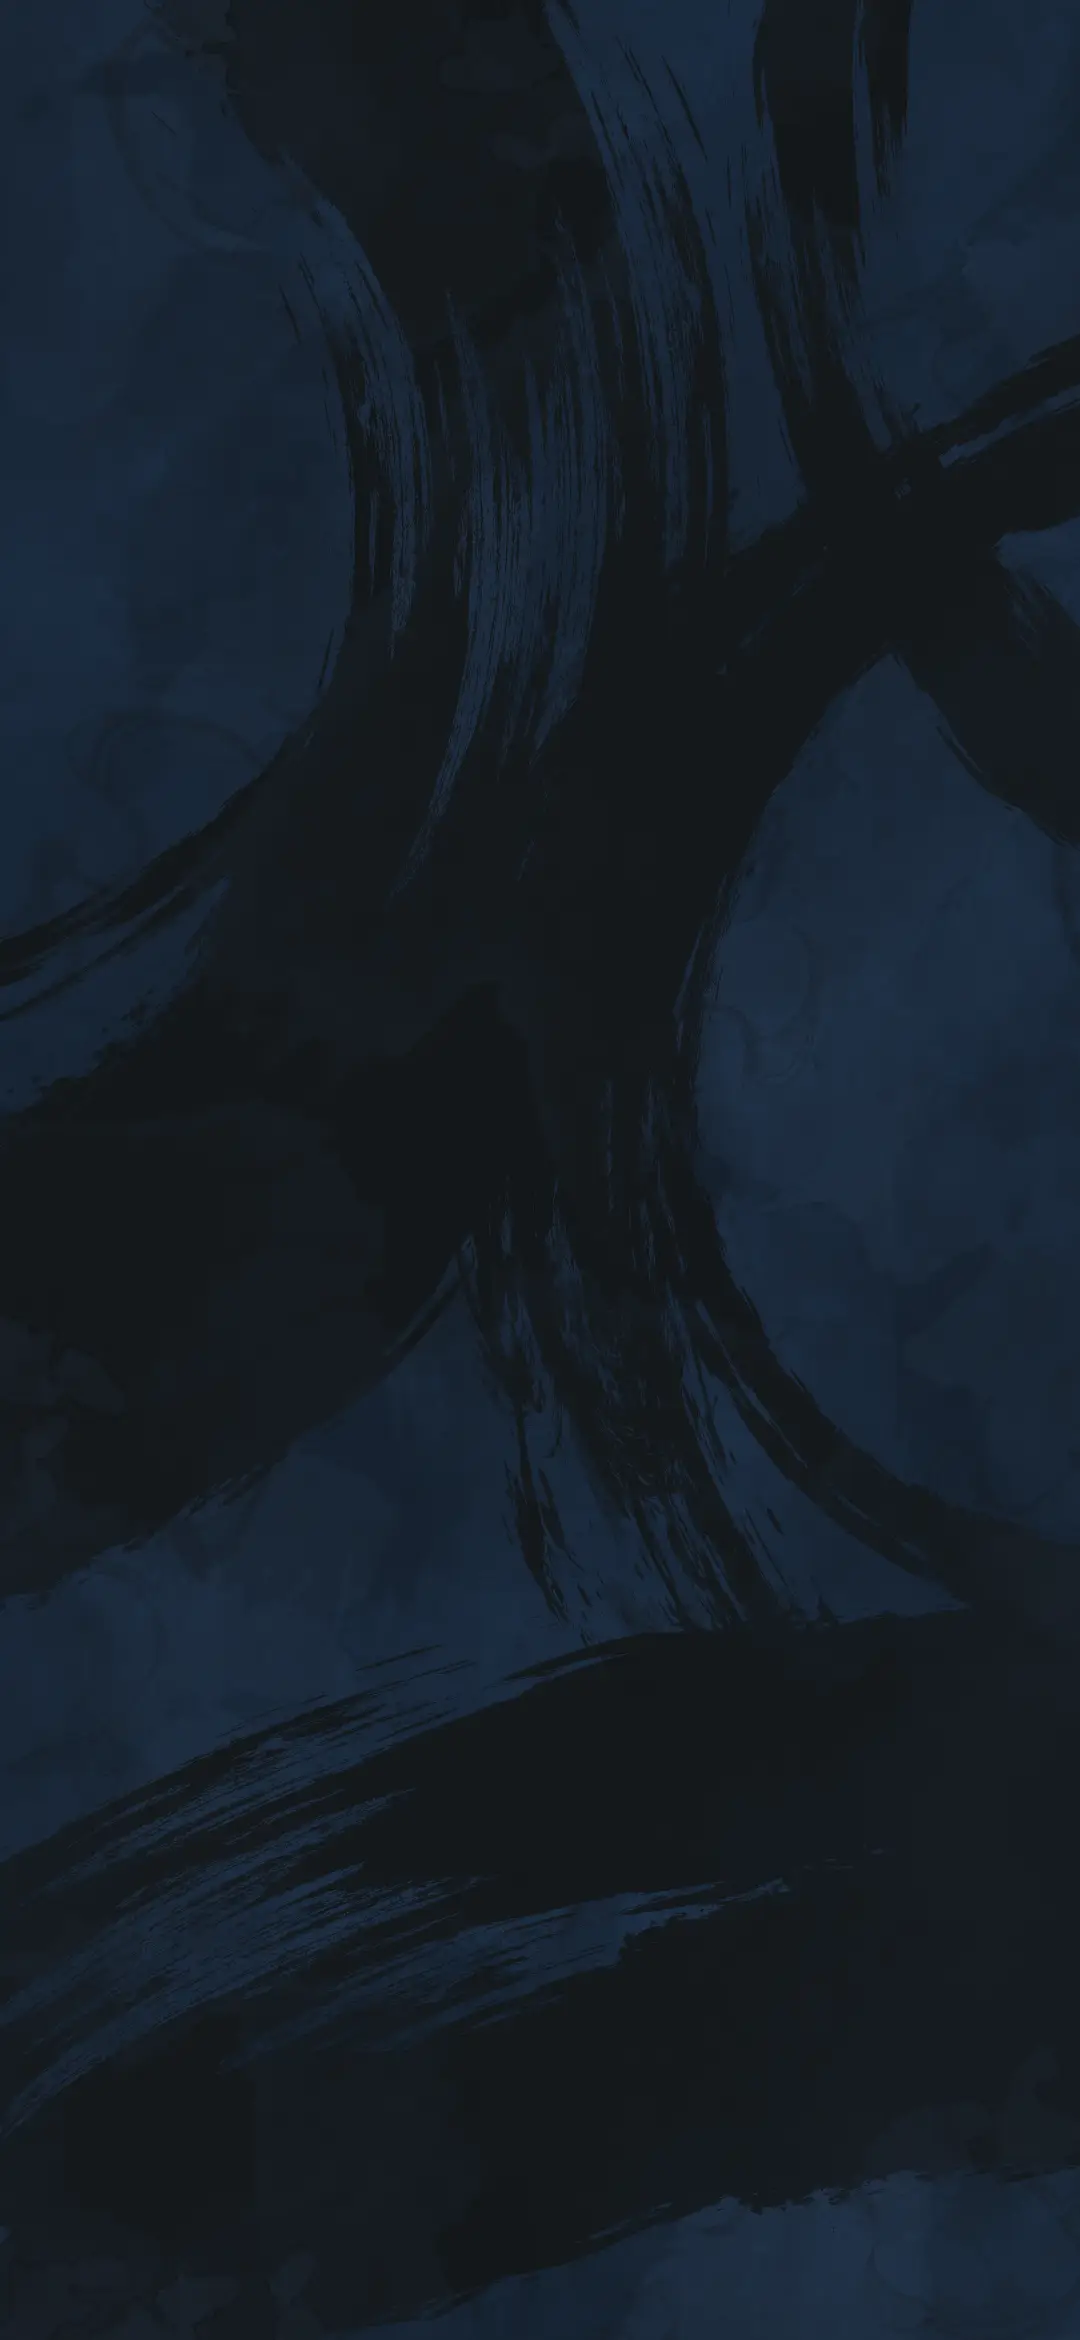
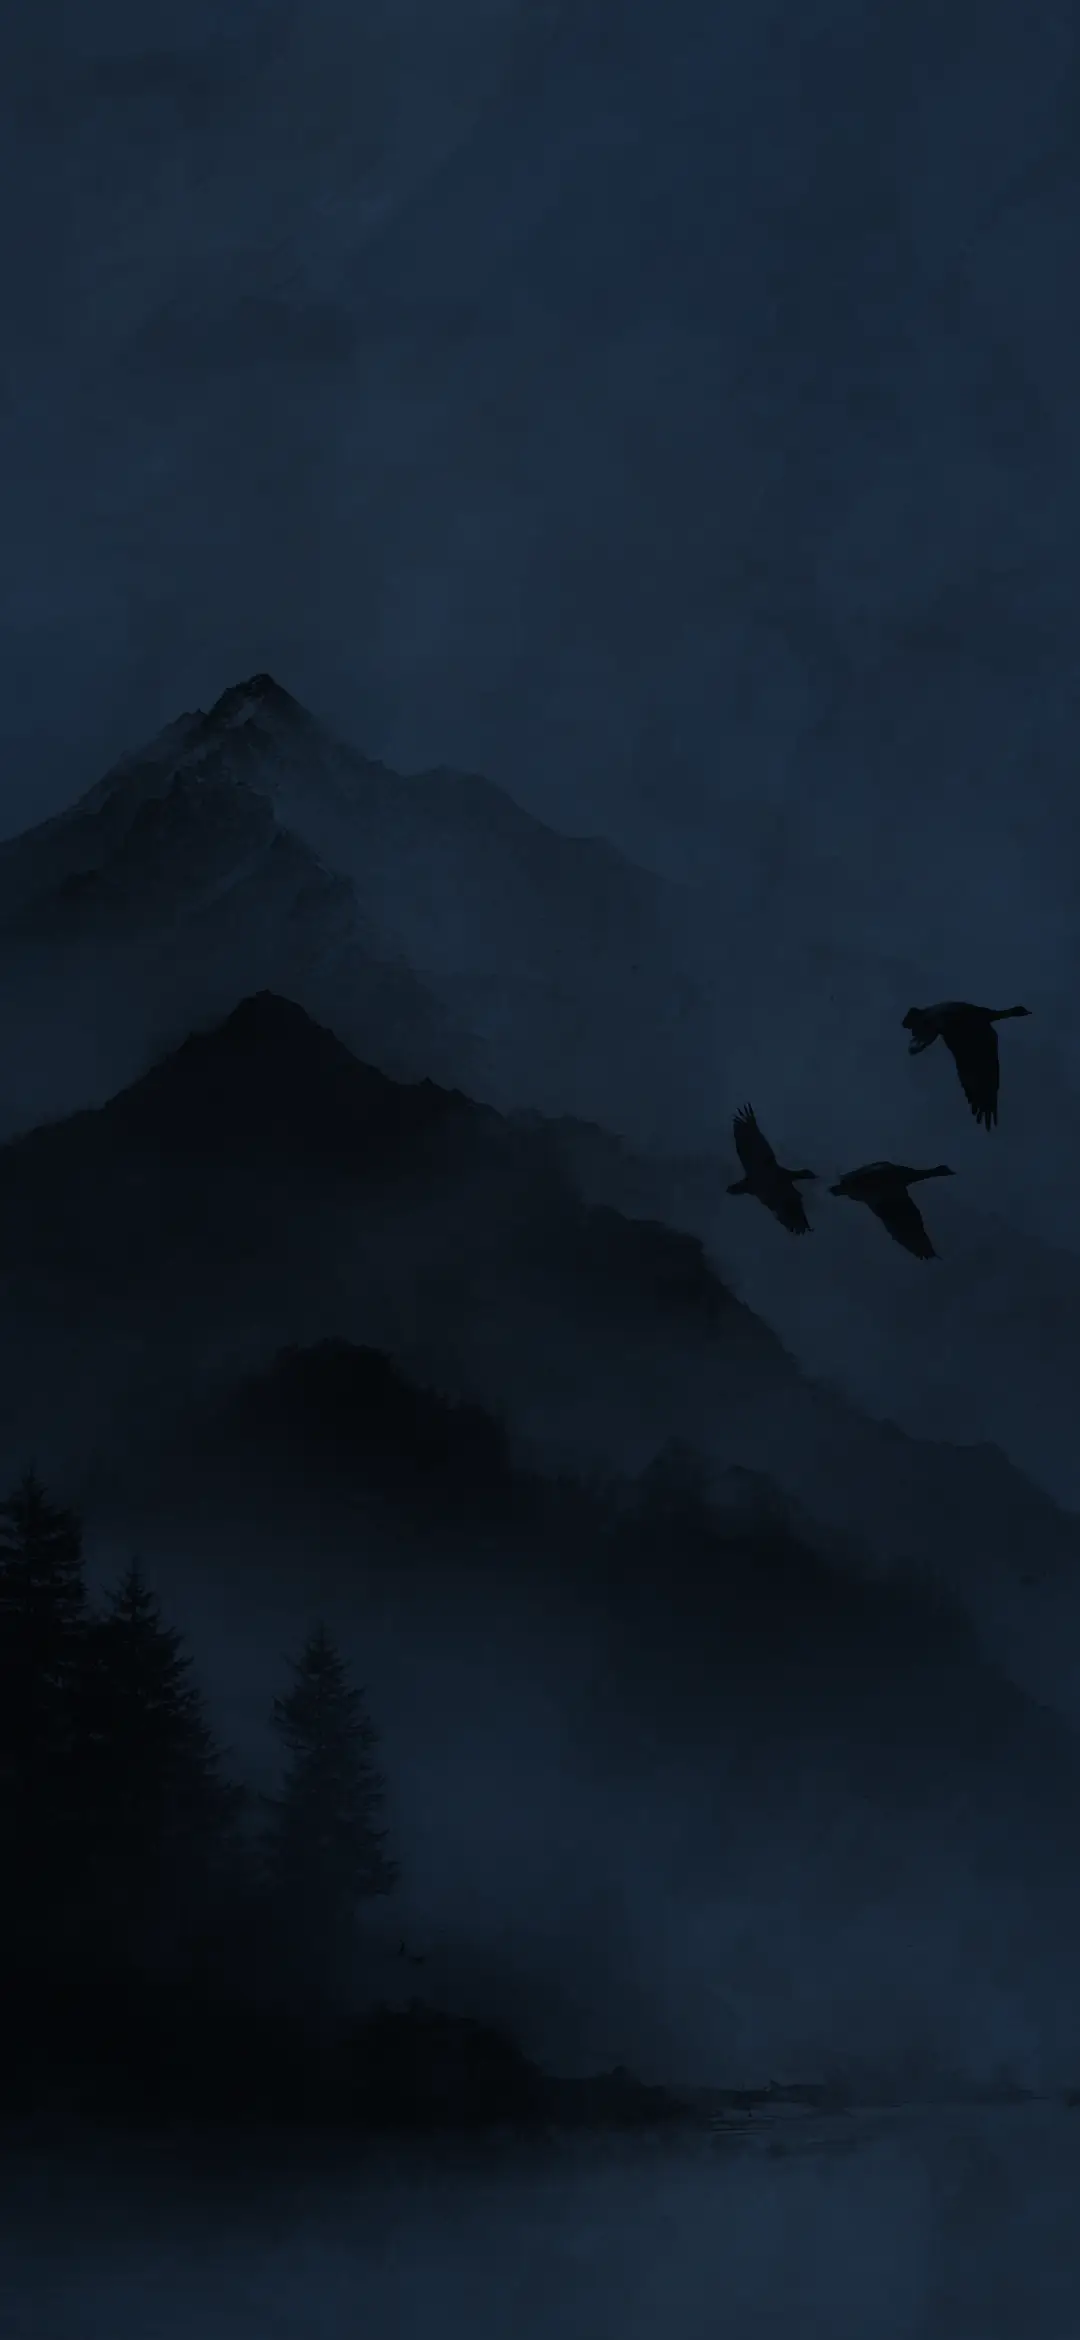
feat/message-bubble-decorations: Add bubble tail and top right corner decoration + update main char background

diff --git a/apps/web/src/components/chat/ChatBubble.tsx b/apps/web/src/components/chat/ChatBubble.tsx
@@ -1,6 +1,7 @@
 import { memo } from "react";
 import { Avatar } from "./Avatar";
 import { MaskedDecor } from "./MaskedDecor";
+import { Decor } from "./Decor";
 import { getCharacterDesign } from "@hyakuto/game";
 
 type ChatBubbleProps = {
@@ -28,7 +29,7 @@ function ChatBubbleInner({
   isLast,
   contentType,
   file,
-  onImageTap
+  onImageTap,
 }: ChatBubbleProps) {
   const design = getCharacterDesign(isMC || isDev ? "mc" : character);
 
@@ -61,35 +62,55 @@ function ChatBubbleInner({
         : "rounded-r-2xl";
 
   return (
-    <div className="flex gap-2 items-end">
+    <div className="flex gap-4 items-end">
       <div className="w-10 shrink-0 mb-2">{showAvatar && <Avatar name={character} />}</div>
       <div className="max-w-[75%]">
         {showName && (
           <span className="text-sm font-bold text-silver ml-1">{design.displayName}</span>
         )}
-        <div
-          className={`relative ${roundedClass} text-ink-black px-4 py-4 mb-2`}
-          style={{
-            backgroundColor: design.bgColor,
-            color: design.textColor,
-            border: `1px solid ${design.borderColor}`,
-            boxShadow: design.shadow,
-          }}
-        >
-          {/* <MaskedDecor character={character} /> */}
-          {contentType === "sticker" ? (
-            <img src={`/stickers/${file}`} alt="sticker" className="w-24 h-24 object-contain" />
-          ) : contentType === "image" ? (
-            <button onClick={() => onImageTap?.(file!)}>
-              <img
-                src={`/images/${file}`}
-                alt="shared image"
-                className="max-w-[200px] rounded-lg"
-              />
-            </button>
-          ) : (
-            <p className="text-lg whitespace-pre-line">{text}</p>
-          )}
+        <div className="relative">
+          {isFirst && (
+              <div className="absolute top-[-10px] right-[-10px] w-[40px] h-[50px] z-0">
+                <Decor
+                  character={character}
+                  image={design.topRightUrl}
+                  className="w-[40px] h-[50px] -z-10"
+                />
+              </div>
+            )}
+          <div
+            className={`relative z-10 ${roundedClass} text-ink-black px-4 py-4 mb-2`}
+            style={{
+              backgroundColor: design.bgColor,
+              color: design.textColor,
+              border: `1px solid ${design.borderColor}`,
+              boxShadow: design.shadow,
+            }}
+          >
+            {/* <MaskedDecor character={character} /> */}
+            {isLast && (
+              <div className="absolute bottom-[-10px] left-[-15px] w-[40px] h-[20px]">
+                <MaskedDecor
+                  character={character}
+                  image={design.tailUrl}
+                  className="w-[40px] h-[20px]"
+                />
+              </div>
+            )}
+            {contentType === "sticker" ? (
+              <img src={`/stickers/${file}`} alt="sticker" className="w-24 h-24 object-contain" />
+            ) : contentType === "image" ? (
+              <button onClick={() => onImageTap?.(file!)}>
+                <img
+                  src={`/images/${file}`}
+                  alt="shared image"
+                  className="max-w-[200px] rounded-lg"
+                />
+              </button>
+            ) : (
+              <p className="text-lg whitespace-pre-line">{text}</p>
+            )}
+          </div>
         </div>
       </div>
     </div>

diff --git a/apps/web/src/components/chat/Decor.tsx b/apps/web/src/components/chat/Decor.tsx
@@ -1,0 +1,30 @@
+import { getCharacterDesign } from "@hyakuto/game";
+
+type DecorProps = {
+  character: string;
+  image?: string;
+  className?: string;
+};
+
+const colorMap: Record<string, string> = {
+  tatsumi: '#81B6F8',
+  kou: "#F9AA5A",
+  ren: "#C9BDCD",
+  haruki: "#C8DE98"
+}
+
+export function Decor({ character, image, className = 'w-[40px] h-[20px]' }: DecorProps) {
+  const design = getCharacterDesign(character);
+
+  return (
+    <div
+      className={className}
+      style={{
+        backgroundImage: `url('/assets/images/${image}')`,
+        backgroundSize: 'contain',
+        backgroundRepeat: 'no-repeat',
+        opacity: 0.9
+      }}
+    />
+  );
+}

diff --git a/apps/web/src/components/chat/MaskedDecor.tsx b/apps/web/src/components/chat/MaskedDecor.tsx
@@ -1,5 +1,8 @@
+import { getCharacterDesign } from "@hyakuto/game";
+
 type MaskedDecorProps = {
   character: string;
+  image?: string;
   className?: string;
 };
 
@@ -10,22 +13,21 @@ const colorMap: Record<string, string> = {
   haruki: "#C8DE98"
 }
 
-export function MaskedDecor({ character, className = 'w-24 h-9' }: MaskedDecorProps) {
+export function MaskedDecor({ character, image, className = 'w-[40px] h-[20px]' }: MaskedDecorProps) {
+  const design = getCharacterDesign(character);
+
   return (
     <div
       className={className}
       style={{
-        backgroundColor: colorMap[character.toLowerCase()],
-        maskImage: `url('/assets/images/${character.toLowerCase()}.png')`,
+        backgroundColor: design.borderColor,
+        maskImage: `url('/assets/images/${image}')`,
         maskSize: 'contain',
         maskRepeat: 'no-repeat',
-        position: 'absolute',
-        left: -5,
-        bottom: -5,
-        WebkitMaskImage: `url('/assets/images/${character.toLowerCase()}.png')`,
+        WebkitMaskImage: `url('/assets/images/${image}')`,
         WebkitMaskSize: 'contain',
         WebkitMaskRepeat: 'no-repeat',
-        opacity: 0.2
+        opacity: 0.9
       }}
     />
   );